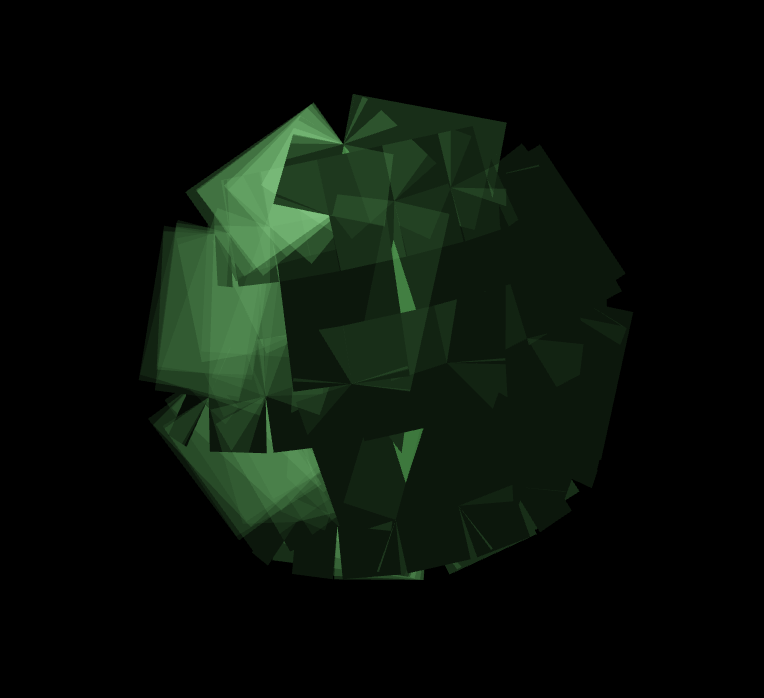
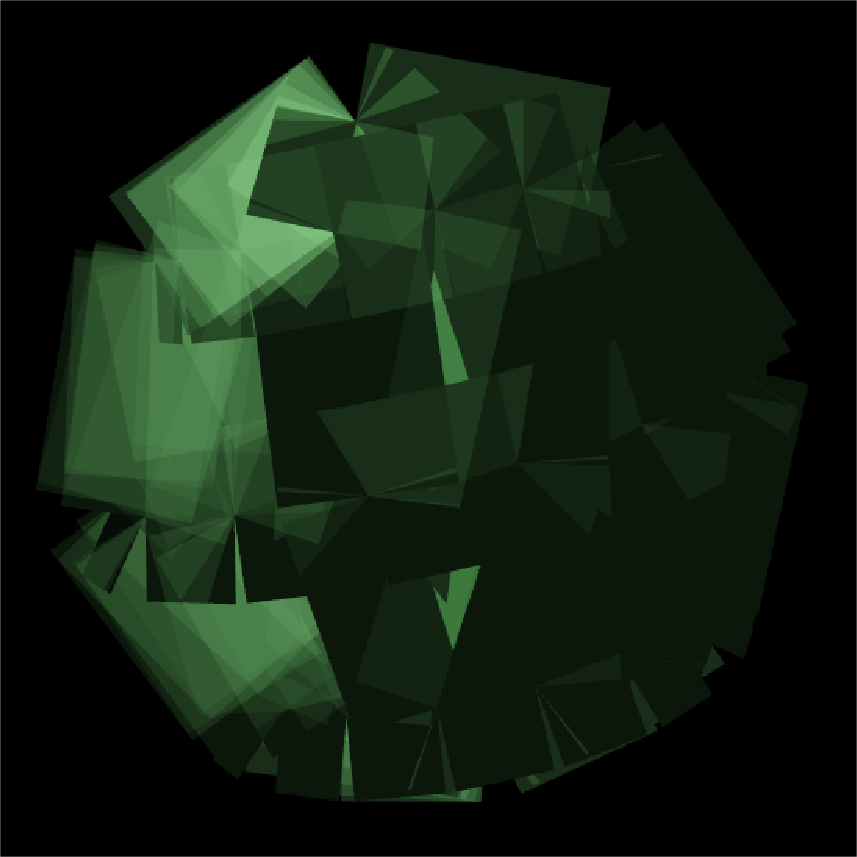
reformat png images, add sketch to projects page, transition animation on projects page

diff --git a/projects.html b/projects.html
@@ -38,7 +38,7 @@
 </head>
 
 <body>
-  <!-- <script src="sketch3.js"></script> -->
+  <script src="sketch3.js"></script>
   <!-- Primary Page Layout
   –––––––––––––––––––––––––––––––––––––––––––––––––– -->
   <div class="container">
@@ -46,7 +46,7 @@
       <nav class="three columns"><a href="index.html">HOME</a></nav>
       <nav class="three columns"><a href="projects.html">PROJECTS</a></nav>
       <nav class="three columns"><a href="statement.html">STATEMENT</a></nav>
-      <nav class="three columns"><a href="contact.html">CONTACT</a></nav>
+      <!-- <nav class="three columns"><a href="contact.html">CONTACT</a></nav> -->
     </div>
     <div class="row">
       <div class="one-half column" style="margin-top: 10%">
@@ -79,13 +79,10 @@
         <h5>
           SPHEORIZE
         </h5>
-        <a href="https://converttosmartobject.github.io/bjerg/" target="_blank">
-          <!-- <img src="images/project-bjerg.PNG" alt="SPHEORIZE"> -->
           <video width="250" loop="true" autoplay="autoplay" controls>
             <source src="spheorize.mp4" type="video/mp4">
               Your browser does not support the video tag.
           </video>
-        </a>
         <p>adobe after effects | 2021</p>
       </div>
     </div>
@@ -95,7 +92,7 @@
           OUR VIRUS
         </h5>
         <a href="https://converttosmartobject.github.io/website-v3.0/" target="_blank">
-          <img src="images/project-virus.png" alt="VIRUS">
+          <img src="images/virus.png" alt="VIRUS">
         </a>
         <p>p5.js javascript library, html/css | 2020</p>
       </div>
@@ -106,7 +103,7 @@
           BJERG
         </h5>
         <a href="https://converttosmartobject.github.io/bjerg/" target="_blank">
-          <img src="images/project-bjerg.PNG" alt="BJERG">
+          <img src="images/bjerg.png" alt="BJERG">
         </a>
         <p>html/css, adobe illustrator | 2020</p>
       </div>
@@ -117,7 +114,7 @@
           WWW DOT
         </h5>
         <a href="https://converttosmartobject.github.io/www/" target="_blank">
-          <img src="images/project-www.PNG" alt="WWW DOT">
+          <img src="images/www.png" alt="WWW DOT">
         </a>
         <p>p5.js javascript library, html/css | 2019</p>
       </div>

diff --git a/sketch3.js b/sketch3.js
@@ -21,35 +21,26 @@ function setup() {
   canvas.style('z-index', '-1');
   centre = createVector(0,0);
   border = createVector(150,0);
-	vel = createVector(0,-20);
+	// vel = createVector(0,-20);
+	vel = createVector(0,-3);
 }
 
 function draw() {
-	var acc = centre.copy();
-  acc.sub(border);
-  acc.setMag(0.15);
-	vel.add(acc);
-  border.add(vel);
-  background(51, 21, 39, 5);
+  var acc = centre.copy();
+    acc.sub(border);
+    acc.setMag(0.25);
+  	vel.add(acc);
+    border.add(vel);
+    // background(20,50);
 
-    //Slowly increase 'a' and then animate 's' with
-  //a smooth cyclical motion by finding the cosine of 'a'
-  a = a + 0.04;
-  s = cos(a) * 2;
-
-  translate(width / 2, height / 2);
-  scale(s);
-  fill(0);
-  ellipse(0, 0, 200, 200);
-
-  translate(windowWidth/1.5,windowHeight/1.5);
-  noFill();
-  stroke(255);
-  strokeWeight(.5);
-  ellipse(centre.x,centre.y,100);
-  ellipse(border.x,border.y,2.5);
-  stroke(255, 50);
-  rect(border.x*2,border.y, 7);
-  // rect(border.x,border.y*2, 5/border.x);
-  time++;
+    translate(200,200);
+    noFill();
+    // stroke(100);
+    stroke(78, 77, 120);
+    strokeWeight(1);
+    rect(centre.x,centre.y, 5/border.y);
+    stroke(78, 77, 120);
+    strokeWeight(1);
+    ellipse(border.x,border.y,centre.y);
+    time++;
 }

diff --git a/css/skeleton.css b/css/skeleton.css
@@ -535,26 +535,44 @@ there.
 #slide-1:hover {
   /* transform: scale(1.05); */
   border-radius: 0%;
+  transition: all .5s ease;
+  /* background-color: rgba(255, 255, 255, 0.5);
+  color: black; */
 }
 #slide-2:hover {
   /* transform: scale(1.05); */
   border-radius: 0%;
+  transition: all .5s ease;
+  /* background-color: rgba(255, 255, 255, 0.5);
+  color: black; */
 }
 #slide-3:hover {
   /* transform: scale(1.05); */
   border-radius: 0%;
+  transition: all .5s ease;
+  /* background-color: rgba(255, 255, 255, 0.5);
+  color: black; */
 }
 #slide-4:hover {
   /* transform: scale(1.05); */
   border-radius: 0%;
+  transition: all .5s ease;
+  /* background-color: rgba(255, 255, 255, 0.5);
+  color: black; */
 }
 #slide-5:hover {
   /* transform: scale(1.05); */
   border-radius: 0%;
+  transition: all .5s ease;
+  /* background-color: rgba(255, 255, 255, 0.5);
+  color: black; */
 }
 #slide-6:hover {
   /* transform: scale(1.05); */
   border-radius: 0%;
+  transition: all .5s ease;
+  /* background-color: rgba(255, 255, 255, 0.5);
+  color: black; */
 }
 
 .slides::-webkit-scrollbar {

diff --git a/sketch2.js b/sketch2.js
@@ -30,7 +30,7 @@ function draw() {
   acc.setMag(0.15);
 	vel.add(acc);
   border.add(vel);
-  background(4, 35, 51, 5);
+  // background(4, 35, 51, 5);
 
 
     //Slowly increase 'a' and then animate 's' with
@@ -42,8 +42,9 @@ function draw() {
   translate(width / 4.5, height / 3.5);
   scale(s);
   fill(0);
-  stroke(255);
-  strokeWeight(.5);
+  // stroke(255);
+  stroke(78, 77, 120);
+  strokeWeight(.25);
   for (let i = 0; i < 10; i ++) {
   ellipse(border.x, border.y, 20, 20);
   rotate(PI/5);
@@ -52,11 +53,14 @@ function draw() {
   translate(width / border.y, height / border.x);
   scale(s/2);
   fill(0);
-  stroke(255);
+  // stroke(255);
+  stroke(78, 77, 120);
   strokeWeight(.5);
   for (let i = 0; i < 10; i ++) {
   rect(border.y, border.x, 10, 10);
   rotate(PI/5);
   }
+
+
 
 }

diff --git a/sketch.js b/sketch.js
@@ -30,7 +30,7 @@ function draw() {
   acc.setMag(0.15);
 	vel.add(acc);
   border.add(vel);
-  background(51, 21, 39, 5);
+  // background(51, 21, 39, 5);
 
     //Slowly increase 'a' and then animate 's' with
   //a smooth cyclical motion by finding the cosine of 'a'
@@ -44,11 +44,14 @@ function draw() {
 
   translate(windowWidth/1.5,windowHeight/1.5);
   noFill();
-  stroke(255);
-  strokeWeight(.5);
+  // stroke(255);
+  stroke(78, 77, 120);
+  strokeWeight(1);
   ellipse(centre.x,centre.y,100);
   ellipse(border.x,border.y,2.5);
-  stroke(255, 50);
+  // stroke(255, 50);
+  stroke(78, 77, 120);
+  strokeWeight(.25);
   rect(border.x*2,border.y, 7);
   // rect(border.x,border.y*2, 5/border.x);
   time++;

diff --git a/index.html b/index.html
@@ -42,7 +42,7 @@
       <nav class="three columns"><a href="index.html">HOME</a></nav>
       <nav class="three columns"><a href="projects.html">PROJECTS</a></nav>
       <nav class="three columns"><a href="statement.html">STATEMENT</a></nav>
-      <nav class="three columns"><a href="contact.html">CONTACT</a></nav>
+      <!-- <nav class="three columns"><a href="contact.html">CONTACT</a></nav> -->
     </div>
     <div class="row">
       <div class="one-half column" style="margin-top: 10%">

diff --git a/statement.html b/statement.html
@@ -42,7 +42,7 @@
       <nav class="three columns"><a href="index.html">HOME</a></nav>
       <nav class="three columns"><a href="projects.html">PROJECTS</a></nav>
       <nav class="three columns"><a href="statement.html">STATEMENT</a></nav>
-      <nav class="three columns"><a href="contact.html">CONTACT</a></nav>
+      <!-- <nav class="three columns"><a href="contact.html">CONTACT</a></nav> -->
     </div>
     <div class="row">
       <div style="margin-top: 10%" >
